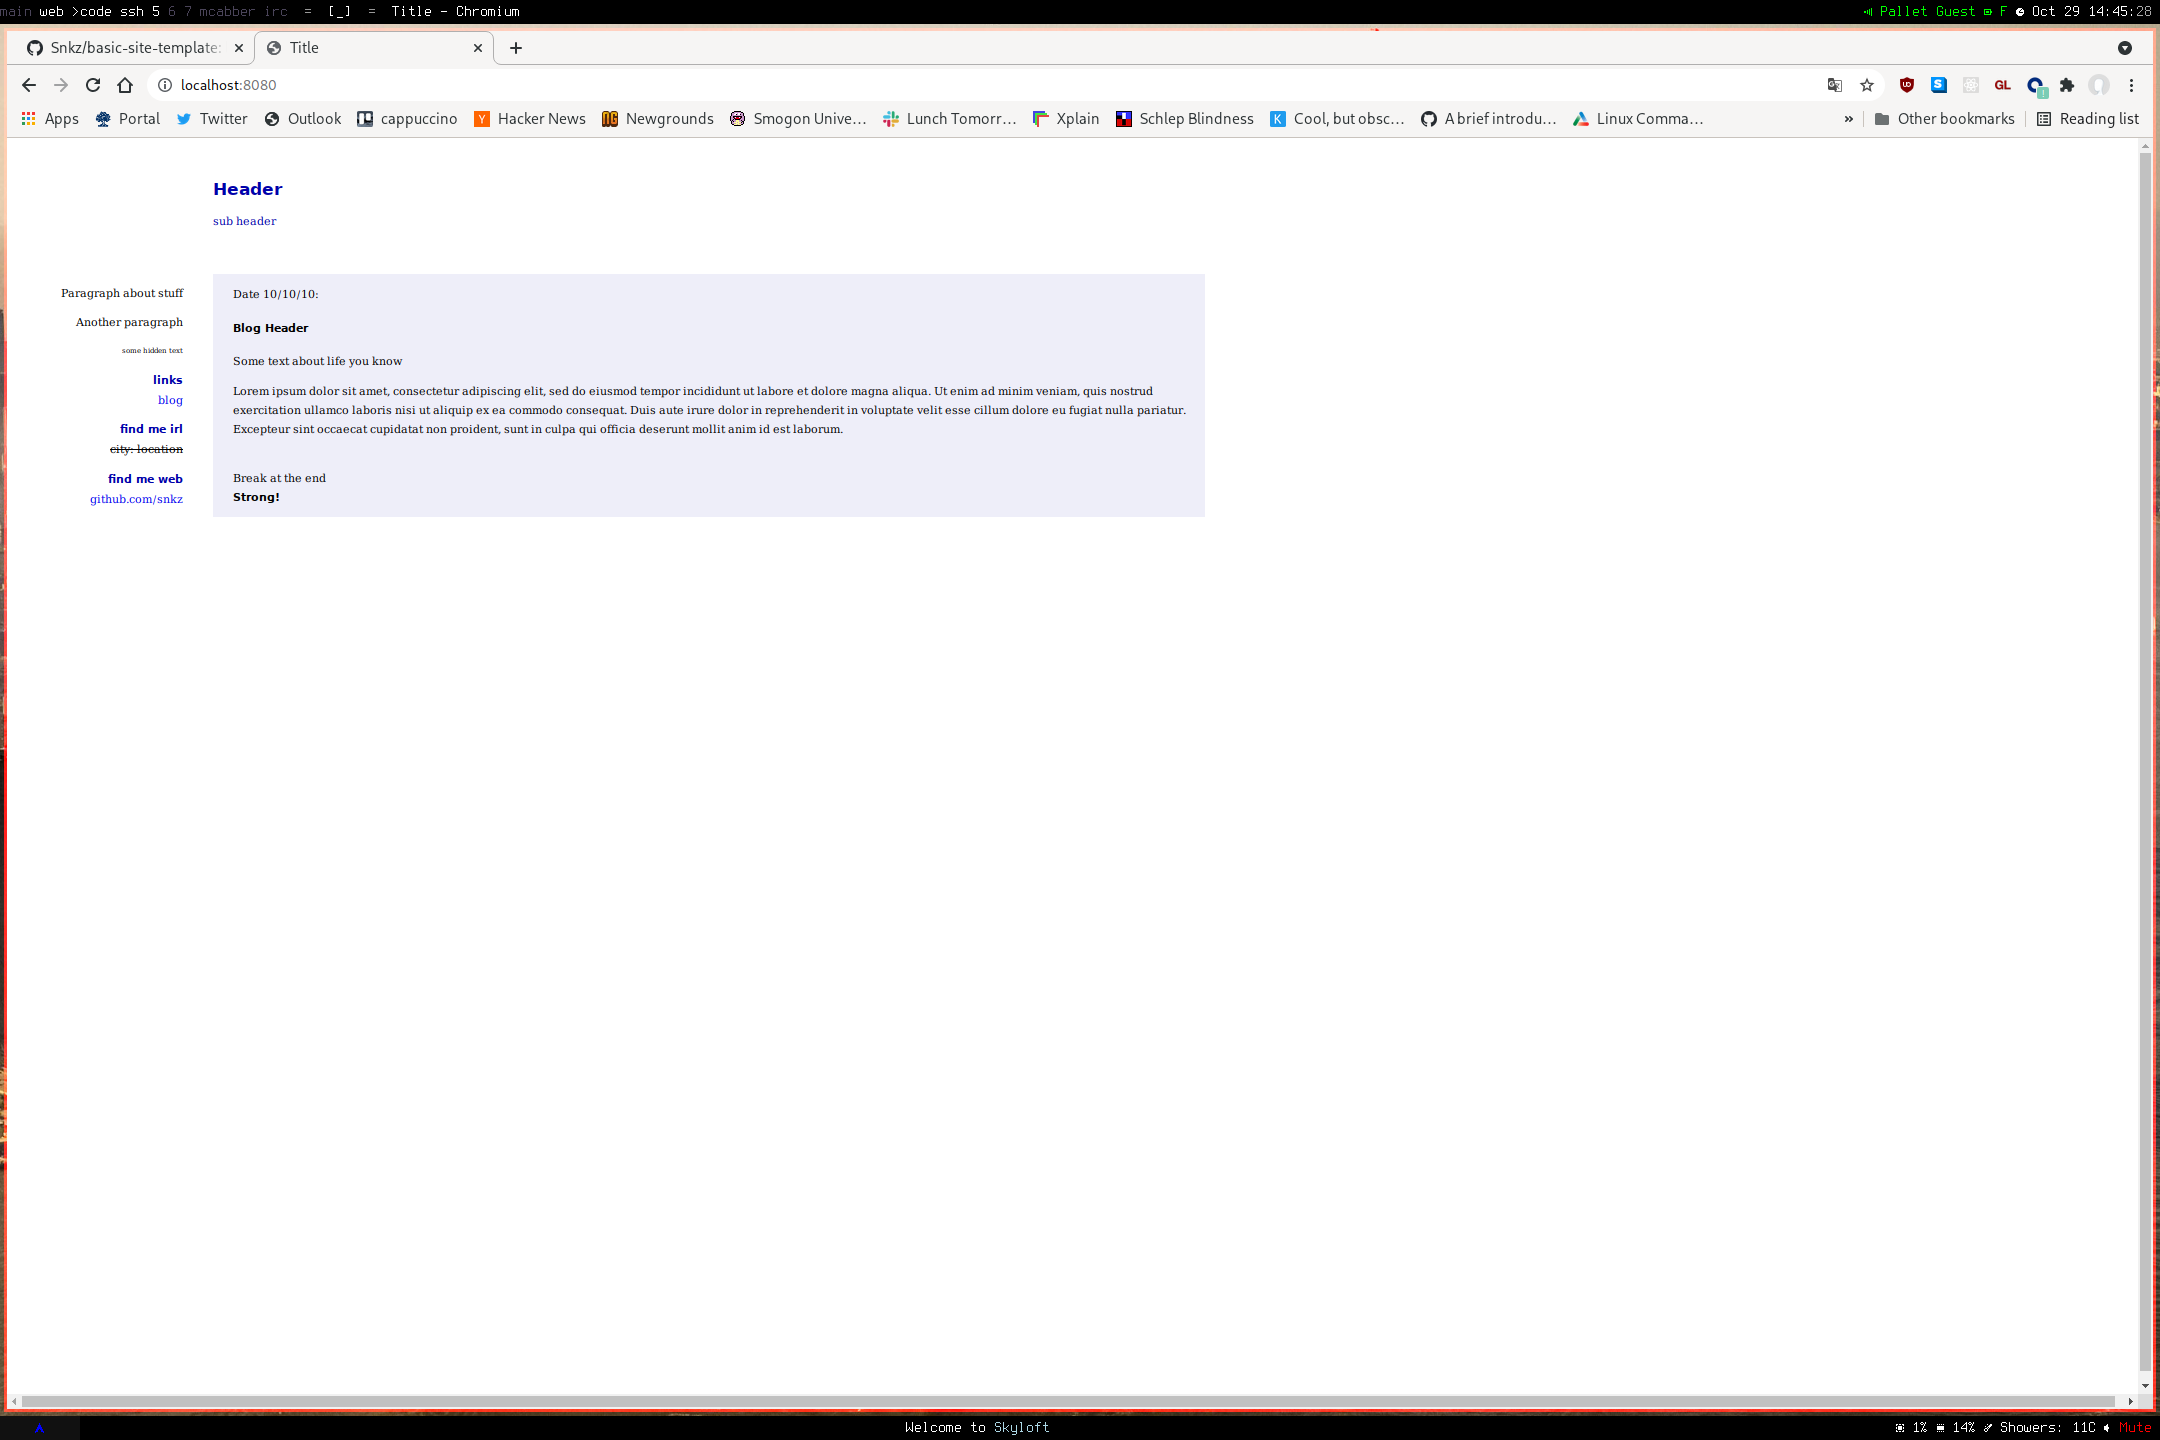
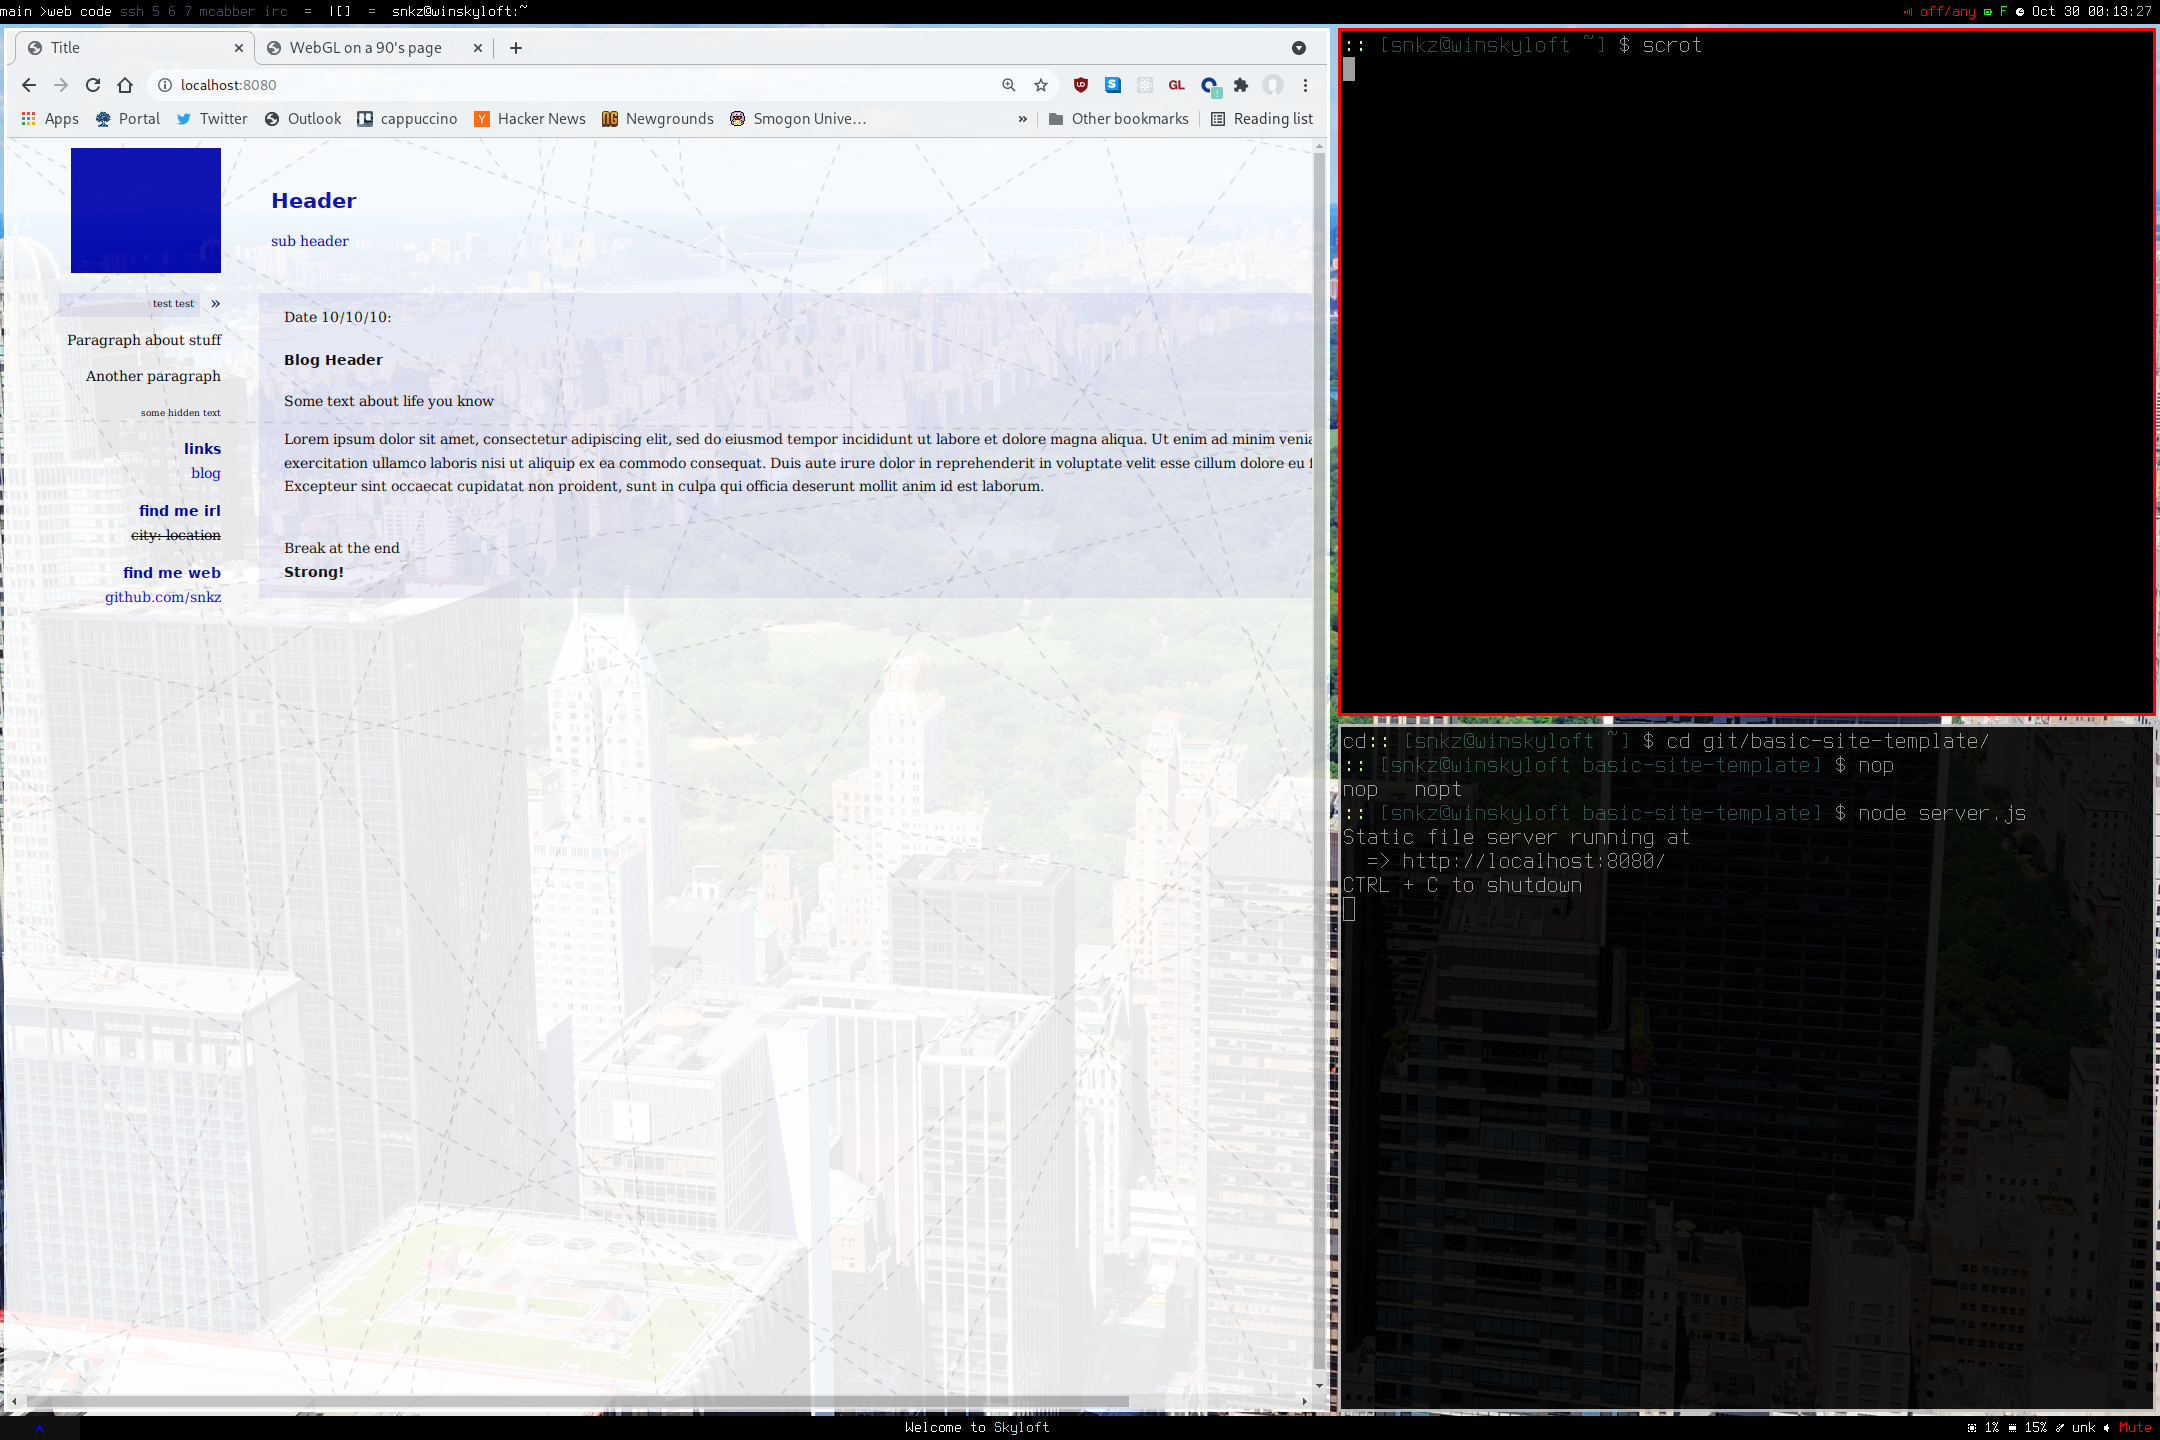
more missign stuff

diff --git a/style.css b/style.css
@@ -12,7 +12,7 @@ body { background-image:url('textures/white-lines.gif'); background-color: #FFFF
 #title { float: left; margin: 20px 40px;}
 #blurb { text-align: right; margin: 10px 0px 0px 0px !important;}
 #blurb-small { font-size: 0.62em; text-align: right; margin: 10px 0px 0px 0px !important;}
-#icon { width: 128px; height: 128px; padding-left: 30px; float: left;} 
+#icon { background-color: #0000AA; width: 100px; height: 100px; padding-left: 20px; margin-left: 48px; float: left;} 
 #data { clear: left; margin: 0px 10px; overflow:hidden;} 
 #side { width: 168px; margin: 0px auto; float: left; margin-right: 20px; 
 padding-bottom: 1000px; margin-bottom: -1000px; } 
@@ -26,7 +26,7 @@ cursor: pointer; cursor: hand;}
 #rarrow { display: inline; text-align: right; font-size: 14px; float: right; 
 cursor: pointer; cursor: hand; margin: 0px 0px 0px 0px; }
 .rainbow { color: #0000AA }
-#block {background-color: #0000AA11; float: left; width: 992px; overflow: hidden; 
+#block { background-color: #0000AA11; float: left; width: 992px; overflow: hidden; 
 padding-bottom: 1000px; margin-bottom: -1000px; display: block;}
 #block-blog {background-color: #0000AA11; float: left; width: 992px; overflow: hidden; display: block;}
 .code {
@@ -38,7 +38,7 @@ padding-bottom: 1000px; margin-bottom: -1000px; display: block;}
 #seperator {background-color: #FFFFFF !important; padding-bottom: 20px; }
 #block-text{margin: 10px 20px; color: #000000; text-align: left; margin-right:10px;}
 #block-text a{display:block; margin-left: 10px; width: 100%}
-#currate { text-align: right; display: inline-block; font-size: 8px; margin: 0px 8px 0px 0px; 
+#currate { background-color: #0000AA11; text-align: right; display: inline-block; font-size: 8px; margin: 0px 8px 0px 0px; 
 padding: 0px 5px 0px 0px; float:right; width: 108px; cursor: default;}
 #ratepicker { margin: 0px 10px 0px 10px; -moz-user-select: none; -webkit-user-select: none; 
 -ms-user-select:none; user-select:none;}

diff --git a/index.html b/index.html
@@ -20,14 +20,15 @@
 
       <div id="data">
         <div id="side">
-          <div id="ratepicker"  unselectable='on' onselectstart='return false;'>
-          </div>
-
+		        <div id="ratepicker"  unselectable='on' onselectstart='return false;'>
+              <div id="rarrow"> &raquo </div>
+              <div id="currate"> test test </div>
+			    </div>
           <div id="leftbar">
-            <p id = "blurb"> 
+            <p id="blurb"> 
             Paragraph about stuff
             </p>
-            <p id = "blurb"> 
+            <p id="blurb"> 
             Another paragraph
             </p>
             <p id = "blurb-small"> 
